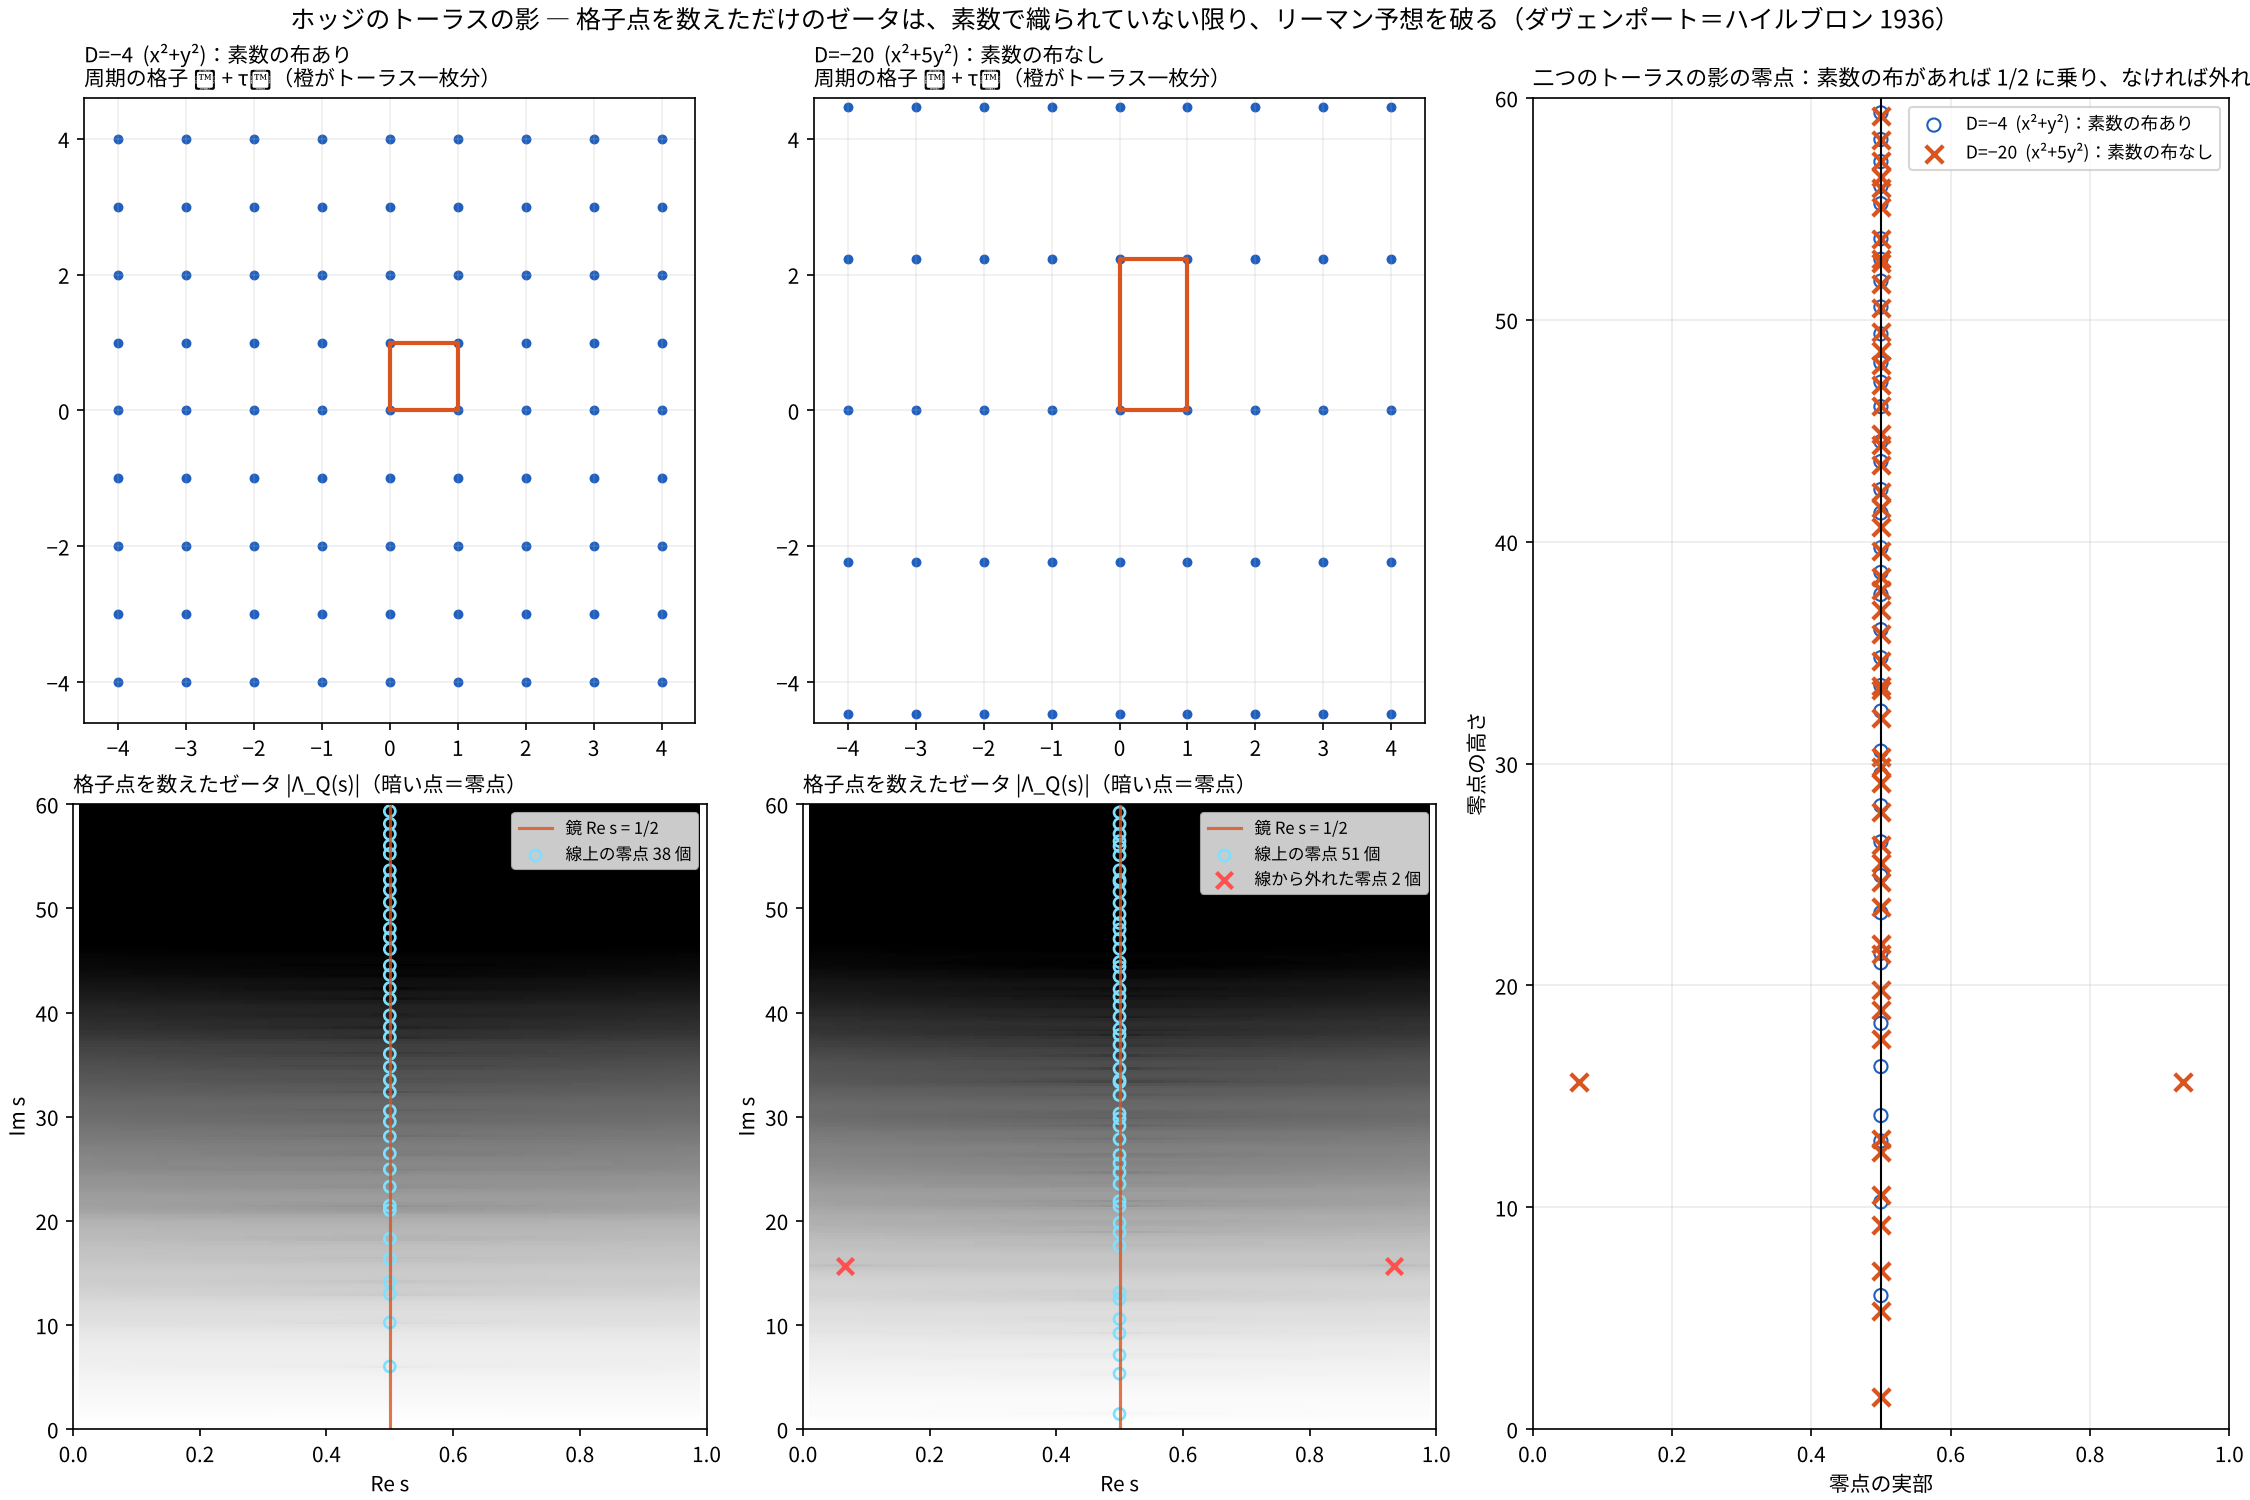
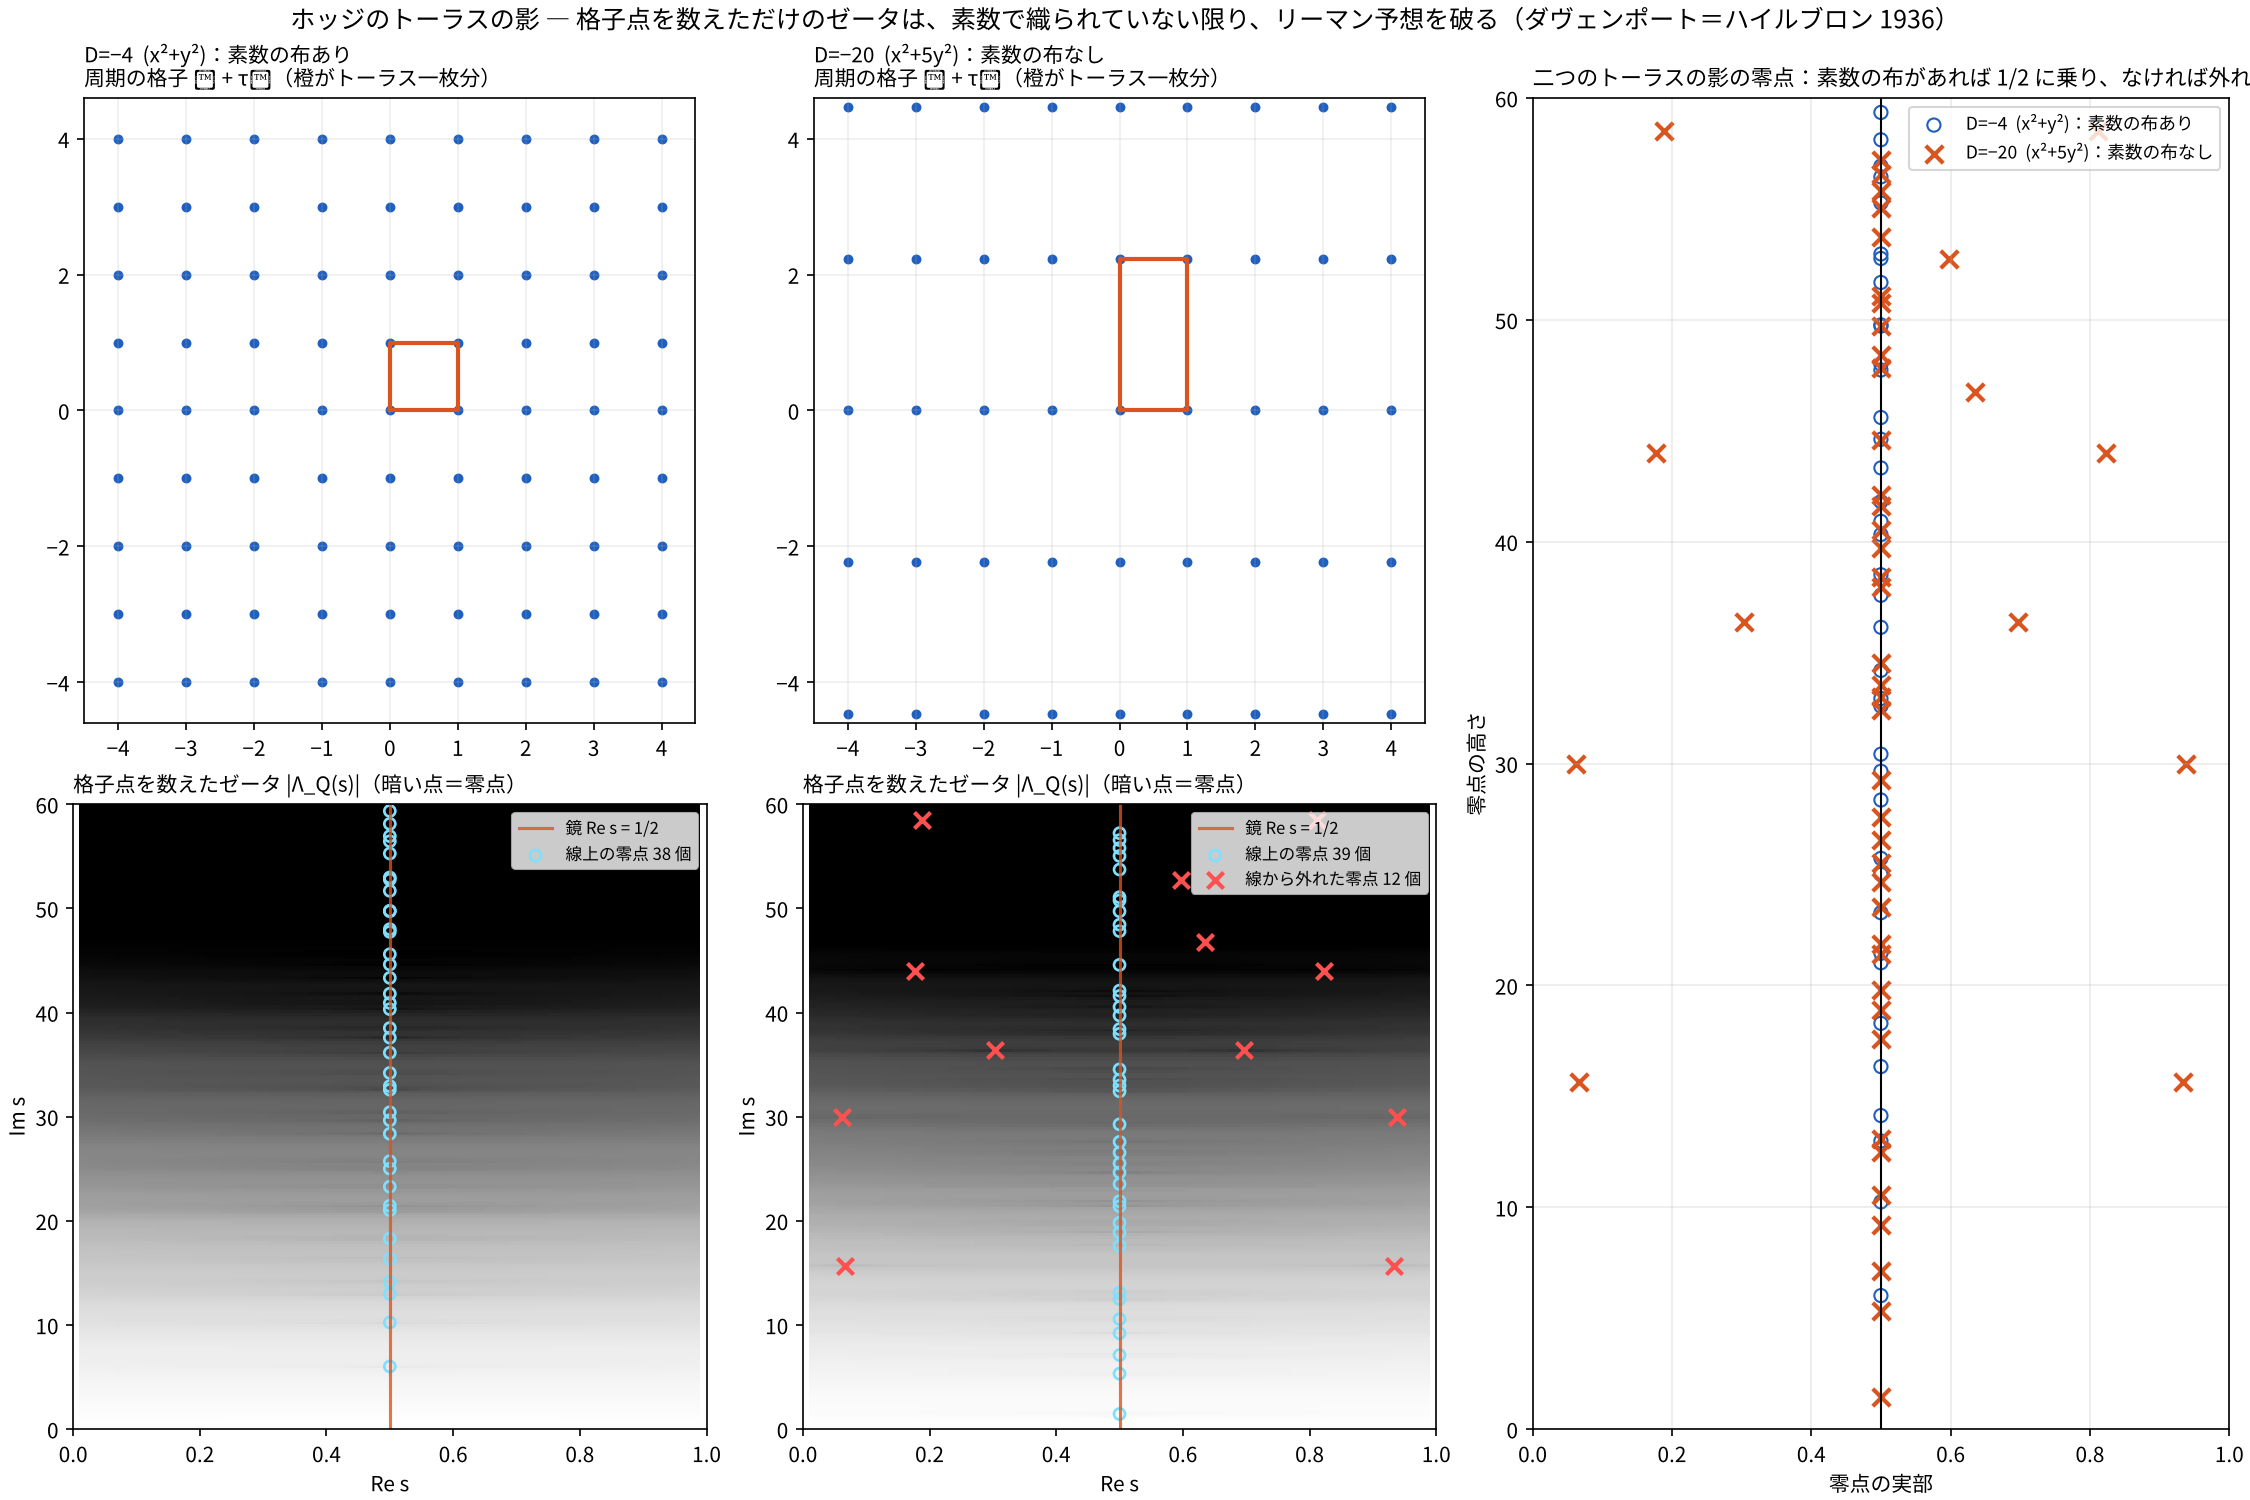
Epstein tori: mirror completion of off-line zeros, finer line scan
Claude-Session: https://claude.ai/code/session_015YSoDzsdTy7hJx8gWhmfYR

diff --git a/scripts/epstein_tori.py b/scripts/epstein_tori.py
@@ -41,7 +41,7 @@ for name, (a, b, c) in forms.items():
     else:
         grid = np.array([[float(abs(Lambda(mp.mpc(sg, t), a, b, c))) for sg in sig] for t in tt]); np.save(cache, grid)
     # (1) 線上の零点：Λ(1/2+it) は実数 → 符号変化を二分法で精密化
-    tf = np.arange(0.3, T, 0.05)
+    tf = np.arange(0.3, T, 0.02)
     vals = np.array([float(mp.re(Lambda(mp.mpc(0.5, t), a, b, c))) for t in tf])
     on = []
     for k in np.nonzero(np.sign(vals[:-1]) != np.sign(vals[1:]))[0]:
@@ -57,6 +57,14 @@ for name, (a, b, c) in forms.items():
                 except Exception: continue
                 if 0 < z.real < 1 and 0.3 < z.imag < T and abs(z.real - 0.5) > 1e-6 and abs(Lambda(z, a, b, c)) < 1e-10:
                     if all(abs(z - w) > 1e-6 for w in off): off.append(z)
+    # 鏡の対称性 Λ(s)=Λ(1−s), Λ(s̄)=conj Λ(s) → σ+it が零点なら (1−σ)+it も零点。取りこぼしを補完して検証
+    for z in list(off):
+        m = mp.mpc(1 - z.real, z.imag)
+        if all(abs(m - w) > 1e-6 for w in off):
+            try:
+                m2 = mp.findroot(lambda s: Lambda(s, a, b, c), m, tol=1e-16, maxsteps=60)
+                if abs(Lambda(m2, a, b, c)) < 1e-10 and all(abs(m2 - w) > 1e-6 for w in off): off.append(m2)
+            except Exception: pass
     # (3) 偏角の原理で総数を検算：長方形 [−0.3,1.3]×[0.3,T]
     def count_zeros():
         pts = []
